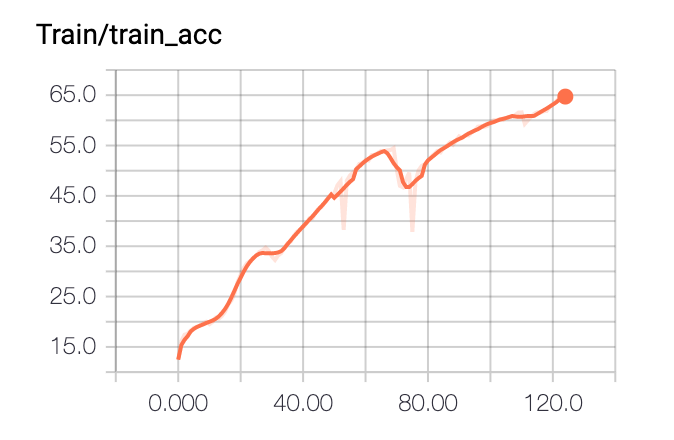
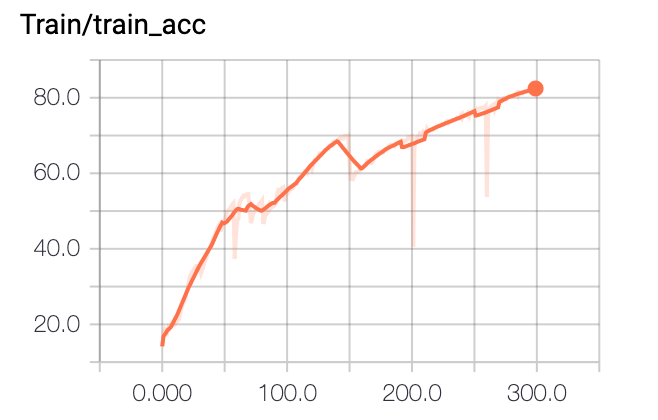
Updated

diff --git a/retrain.py b/retrain.py
@@ -1,0 +1,113 @@
+import numpy as np
+import utils
+import torch
+import torch.nn as nn
+import torch.utils
+import torch.nn.functional as F
+import torchvision.datasets as dset
+from torch.autograd import Variable
+from model import NetworkCIFAR as Network
+import os
+import warnings
+warnings.filterwarnings("ignore")
+import matplotlib.pyplot as plt
+from tensorboardX import SummaryWriter
+import argparse
+from visualize_ftn import genotype
+
+def train(train_queue, model, criterion, optimizer):
+    objs = utils.AvgrageMeter()
+    top1 = utils.AvgrageMeter()
+    model.train()
+    for step, (input, target) in enumerate(train_queue):
+        input = Variable(input).cuda()
+        target = Variable(target).cuda(async=True)
+
+        optimizer.zero_grad()
+        logits, logits_aux = model(input)
+        loss = criterion(logits, target)
+        if args.auxiliary:
+          loss_aux = criterion(logits_aux, target)
+          loss += args.auxiliary_weight*loss_aux
+        loss.backward()
+        nn.utils.clip_grad_norm(model.parameters(), 5)
+        optimizer.step()
+
+        prec1 = utils.accuracy(logits, target)
+        n = input.size(0)
+        objs.update(loss.data, n)
+        top1.update(prec1[0].data, n)
+    return top1.avg, objs.avg
+
+def infer(valid_queue, model, criterion):
+    objs = utils.AvgrageMeter()
+    top1 = utils.AvgrageMeter()
+    model.eval()
+    for step, (input, target) in enumerate(valid_queue):
+        input = Variable(input, volatile=True).cuda()
+        target = Variable(target, volatile=True).cuda(async=True)
+        logits, _ = model(input)
+        loss = criterion(logits, target)
+
+        prec1 = utils.accuracy(logits, target)
+        n = input.size(0)
+        objs.update(loss.data, n)
+        top1.update(prec1[0].data, n)
+    return top1.avg, objs.avg
+
+
+parser = argparse.ArgumentParser("cifar")
+parser.add_argument('--device_number', type=str, default='0', help='device number')
+parser.add_argument('--tensorboard_log', type=str, default='log', help='tensorboard log')
+parser.add_argument('--search_results_dir', type=str, default='search_results', help='search results dir')
+parser.add_argument('--results_dir', type=str, default='results', help='results dir')
+parser.add_argument('--batch_size', type=int, default=128, help='batch size')
+parser.add_argument('--learning_rate', type=float, default=0.025, help='learning rate')
+parser.add_argument('--momentum', type=float, default=0.9, help='momentum')
+parser.add_argument('--weight_decay', type=float, default=3e-4, help='weight_decay')
+parser.add_argument('--epochs', type=int, default=600, help='epochs')
+parser.add_argument('--init_channels', type=int, default=36, help='initial channels')
+parser.add_argument('--cutout', action='store_true', default=True, help='use cutout')
+parser.add_argument('--cutout_length', type=int, default=16, help='cutout length')
+parser.add_argument('--layers', type=int, default=20, help='layers')
+parser.add_argument('--drop_path_prob', type=float, default=0.2, help='drop path probability')
+parser.add_argument('--auxiliary', action='store_true', default=False, help='use auxiliary tower')
+parser.add_argument('--auxiliary_weight', type=float, default=0.4, help='weight for auxiliary loss')
+args = parser.parse_args()
+os.environ["CUDA_VISIBLE_DEVICES"] = args.device_number
+device = torch.device('cuda')
+CIFAR_CLASSES = 10
+criterion = nn.CrossEntropyLoss().cuda()
+epoch_ = int(120)
+alpha_normal = np.load(args.search_results_dir + '/alpha_normal_' + str(epoch_) + '.npy')
+alpha_reduce = np.load(args.search_results_dir + '/alpha_reduce_' + str(epoch_) + '.npy')
+ex = genotype(alpha_normal,alpha_reduce)
+model = Network(args.init_channels, CIFAR_CLASSES, args.layers, args.auxiliary, ex)
+model.cuda()
+optimizer = torch.optim.SGD(model.parameters(),lr= args.learning_rate,momentum = args.momentum, weight_decay=args.weight_decay)
+train_transform, valid_transform = utils._data_transforms_cifar10(args)
+train_data = dset.CIFAR10(root='/home/xiaoda/data', train=True, download=False, transform=train_transform)
+valid_data = dset.CIFAR10(root='/home/xiaoda/data', train=False, download=False, transform=train_transform)
+writer = SummaryWriter(args.tensorboard_log)
+if not os.path.exists(args.results_dir):
+    os.mkdir(args.results_dir)
+scheduler = torch.optim.lr_scheduler.CosineAnnealingLR(optimizer, float(args.epochs))
+train_queue = torch.utils.data.DataLoader(
+  train_data, batch_size=args.batch_size, shuffle = True)
+
+valid_queue = torch.utils.data.DataLoader(
+  valid_data, batch_size=args.batch_size, shuffle = False)
+for epoch in range(args.epochs):
+    scheduler.step()
+    print("Start to train for epoch %d" % (epoch))
+    model.drop_path_prob = args.drop_path_prob * epoch / args.epochs
+    train_acc, train_obj = train(train_queue, model, criterion, optimizer)
+    print("Start to validate for epoch %d" % (epoch))
+    valid_acc, valid_obj = infer(valid_queue, model, criterion)
+
+    writer.add_scalar('Train/train_acc', train_acc, epoch)
+    writer.add_scalar('Train/train_loss', train_obj, epoch)
+    writer.add_scalar('Val/valid_acc', valid_acc, epoch)
+    writer.add_scalar('Val/valid_loss', valid_obj, epoch)
+
+torch.save(model.state_dict(), args.results_dir + '/weights.pt')

diff --git a/model.py b/model.py
@@ -1,0 +1,131 @@
+import torch
+import torch.nn as nn
+from operations import *
+from torch.autograd import Variable
+from utils import drop_path
+
+
+class Cell(nn.Module):
+
+  def __init__(self, genotype, C_prev_prev, C_prev, C, reduction, reduction_prev):
+    super(Cell, self).__init__()
+
+    if reduction_prev:
+      self.preprocess0 = FactorizedReduce(C_prev_prev, C)
+    else:
+      self.preprocess0 = ReLUConvBN(C_prev_prev, C, 1, 1, 0)
+    self.preprocess1 = ReLUConvBN(C_prev, C, 1, 1, 0)
+
+    if reduction:
+      op_names, indices = zip(*genotype.reduce)
+      concat = genotype.reduce_concat
+    else:
+      op_names, indices = zip(*genotype.normal)
+      concat = genotype.normal_concat
+    self._compile(C, op_names, indices, concat, reduction)
+
+  def _compile(self, C, op_names, indices, concat, reduction):
+    assert len(op_names) == len(indices)
+    self._steps = len(op_names) // 2
+    self._concat = concat
+    self.multiplier = len(concat)
+
+    self._ops = nn.ModuleList()
+    for name, index in zip(op_names, indices):
+      stride = 2 if reduction and index < 2 else 1
+      op = OPS[name](C, stride, True)
+      self._ops += [op]
+    self._indices = indices
+
+  def forward(self, s0, s1, drop_prob):
+    s0 = self.preprocess0(s0)
+    s1 = self.preprocess1(s1)
+
+    states = [s0, s1]
+    for i in range(self._steps):
+      h1 = states[self._indices[2*i]]
+      h2 = states[self._indices[2*i+1]]
+      op1 = self._ops[2*i]
+      op2 = self._ops[2*i+1]
+      h1 = op1(h1)
+      h2 = op2(h2)
+      if self.training and drop_prob > 0.:
+        if not isinstance(op1, Identity):
+          h1 = drop_path(h1, drop_prob)
+        if not isinstance(op2, Identity):
+          h2 = drop_path(h2, drop_prob)
+      s = h1 + h2
+      states += [s]
+    return torch.cat([states[i] for i in self._concat], dim=1)
+
+
+class AuxiliaryHeadCIFAR(nn.Module):
+
+  def __init__(self, C, num_classes):
+    """assuming input size 8x8"""
+    super(AuxiliaryHeadCIFAR, self).__init__()
+    self.features = nn.Sequential(
+      nn.ReLU(inplace=True),
+      nn.AvgPool2d(5, stride=3, padding=0, count_include_pad=False), # image size = 2 x 2
+      nn.Conv2d(C, 128, 1, bias=False),
+      nn.BatchNorm2d(128),
+      nn.ReLU(inplace=True),
+      nn.Conv2d(128, 768, 2, bias=False),
+      nn.BatchNorm2d(768),
+      nn.ReLU(inplace=True)
+    )
+    self.classifier = nn.Linear(768, num_classes)
+
+  def forward(self, x):
+    x = self.features(x)
+    x = self.classifier(x.view(x.size(0),-1))
+    return x
+
+
+
+class NetworkCIFAR(nn.Module):
+
+  def __init__(self, C, num_classes, layers, auxiliary, genotype):
+    super(NetworkCIFAR, self).__init__()
+    self._layers = layers
+    self._auxiliary = auxiliary
+
+    stem_multiplier = 3
+    C_curr = stem_multiplier*C
+    self.stem = nn.Sequential(
+      nn.Conv2d(3, C_curr, 3, padding=1, bias=False),
+      nn.BatchNorm2d(C_curr)
+    )
+
+    C_prev_prev, C_prev, C_curr = C_curr, C_curr, C
+    self.cells = nn.ModuleList()
+    reduction_prev = False
+    for i in range(layers):
+      if i in [layers//3, 2*layers//3]:
+        C_curr *= 2
+        reduction = True
+      else:
+        reduction = False
+      cell = Cell(genotype, C_prev_prev, C_prev, C_curr, reduction, reduction_prev)
+      reduction_prev = reduction
+      self.cells += [cell]
+      C_prev_prev, C_prev = C_prev, cell.multiplier*C_curr
+      if i == 2*layers//3:
+        C_to_auxiliary = C_prev
+
+    if auxiliary:
+      self.auxiliary_head = AuxiliaryHeadCIFAR(C_to_auxiliary, num_classes)
+    self.global_pooling = nn.AdaptiveAvgPool2d(1)
+    self.classifier = nn.Linear(C_prev, num_classes)
+
+  def forward(self, input):
+    logits_aux = None
+    s0 = s1 = self.stem(input)
+    for i, cell in enumerate(self.cells):
+      s0, s1 = s1, cell(s0, s1, self.drop_path_prob)
+      if i == 2*self._layers//3:
+        if self._auxiliary and self.training:
+          logits_aux = self.auxiliary_head(s1)
+    out = self.global_pooling(s1)
+    logits = self.classifier(out.view(out.size(0),-1))
+    return logits, logits_aux

diff --git a/main_constraint_new.py b/main_constraint_new.py
@@ -18,17 +18,12 @@ def train(train_queue,valid_queue, model, criterion, optimizer_arch, optimizer_m
     objs = utils.AvgrageMeter()
     top1 = utils.AvgrageMeter()
     top5 = utils.AvgrageMeter()
+    model.train()
     for step, (input, target) in enumerate(train_queue):
-        model.train()
         n = input.size(0) # batch size
 
         input = Variable(input , requires_grad = True).cuda()
         target = Variable(target, requires_grad=False).cuda(async=True)
-
-        input_search, target_search = next(iter(valid_queue))
-        input_search = Variable(input_search , requires_grad = True ).cuda()
-        target_search = Variable(target_search, requires_grad=False).cuda(async=True)
-
         temperature = args.initial_temp
 
         optimizer_arch.zero_grad()
@@ -107,9 +102,6 @@ train_transform, valid_transform = utils._data_transforms_cifar10(args)
 train_data = dset.CIFAR10(root='/home/xiaoda/data', train=True, download=False, transform=train_transform)
 valid_data = dset.CIFAR10(root='/home/xiaoda/data', train=False, download=False, transform=train_transform)
 writer = SummaryWriter(args.tensorboard_log)
-num_train = len(train_data)
-indices = list(range(num_train))
-split = int(np.floor(args.train_portion * num_train))
 if not os.path.exists(args.search_results_dir):
     os.mkdir(args.search_results_dir)
 train_queue = torch.utils.data.DataLoader(

diff --git a/utils.py b/utils.py
@@ -62,6 +62,13 @@ class Cutout(object):
         img *= mask
         return img
 
+def drop_path(x, drop_prob):
+  if drop_prob > 0.:
+    keep_prob = 1.-drop_prob
+    mask = Variable(torch.cuda.FloatTensor(x.size(0), 1, 1, 1).bernoulli_(keep_prob))
+    x.div_(keep_prob)
+    x.mul_(mask)
+  return x
 
 def accuracy(output, target, topk=(1,)):
   maxk = max(topk)
